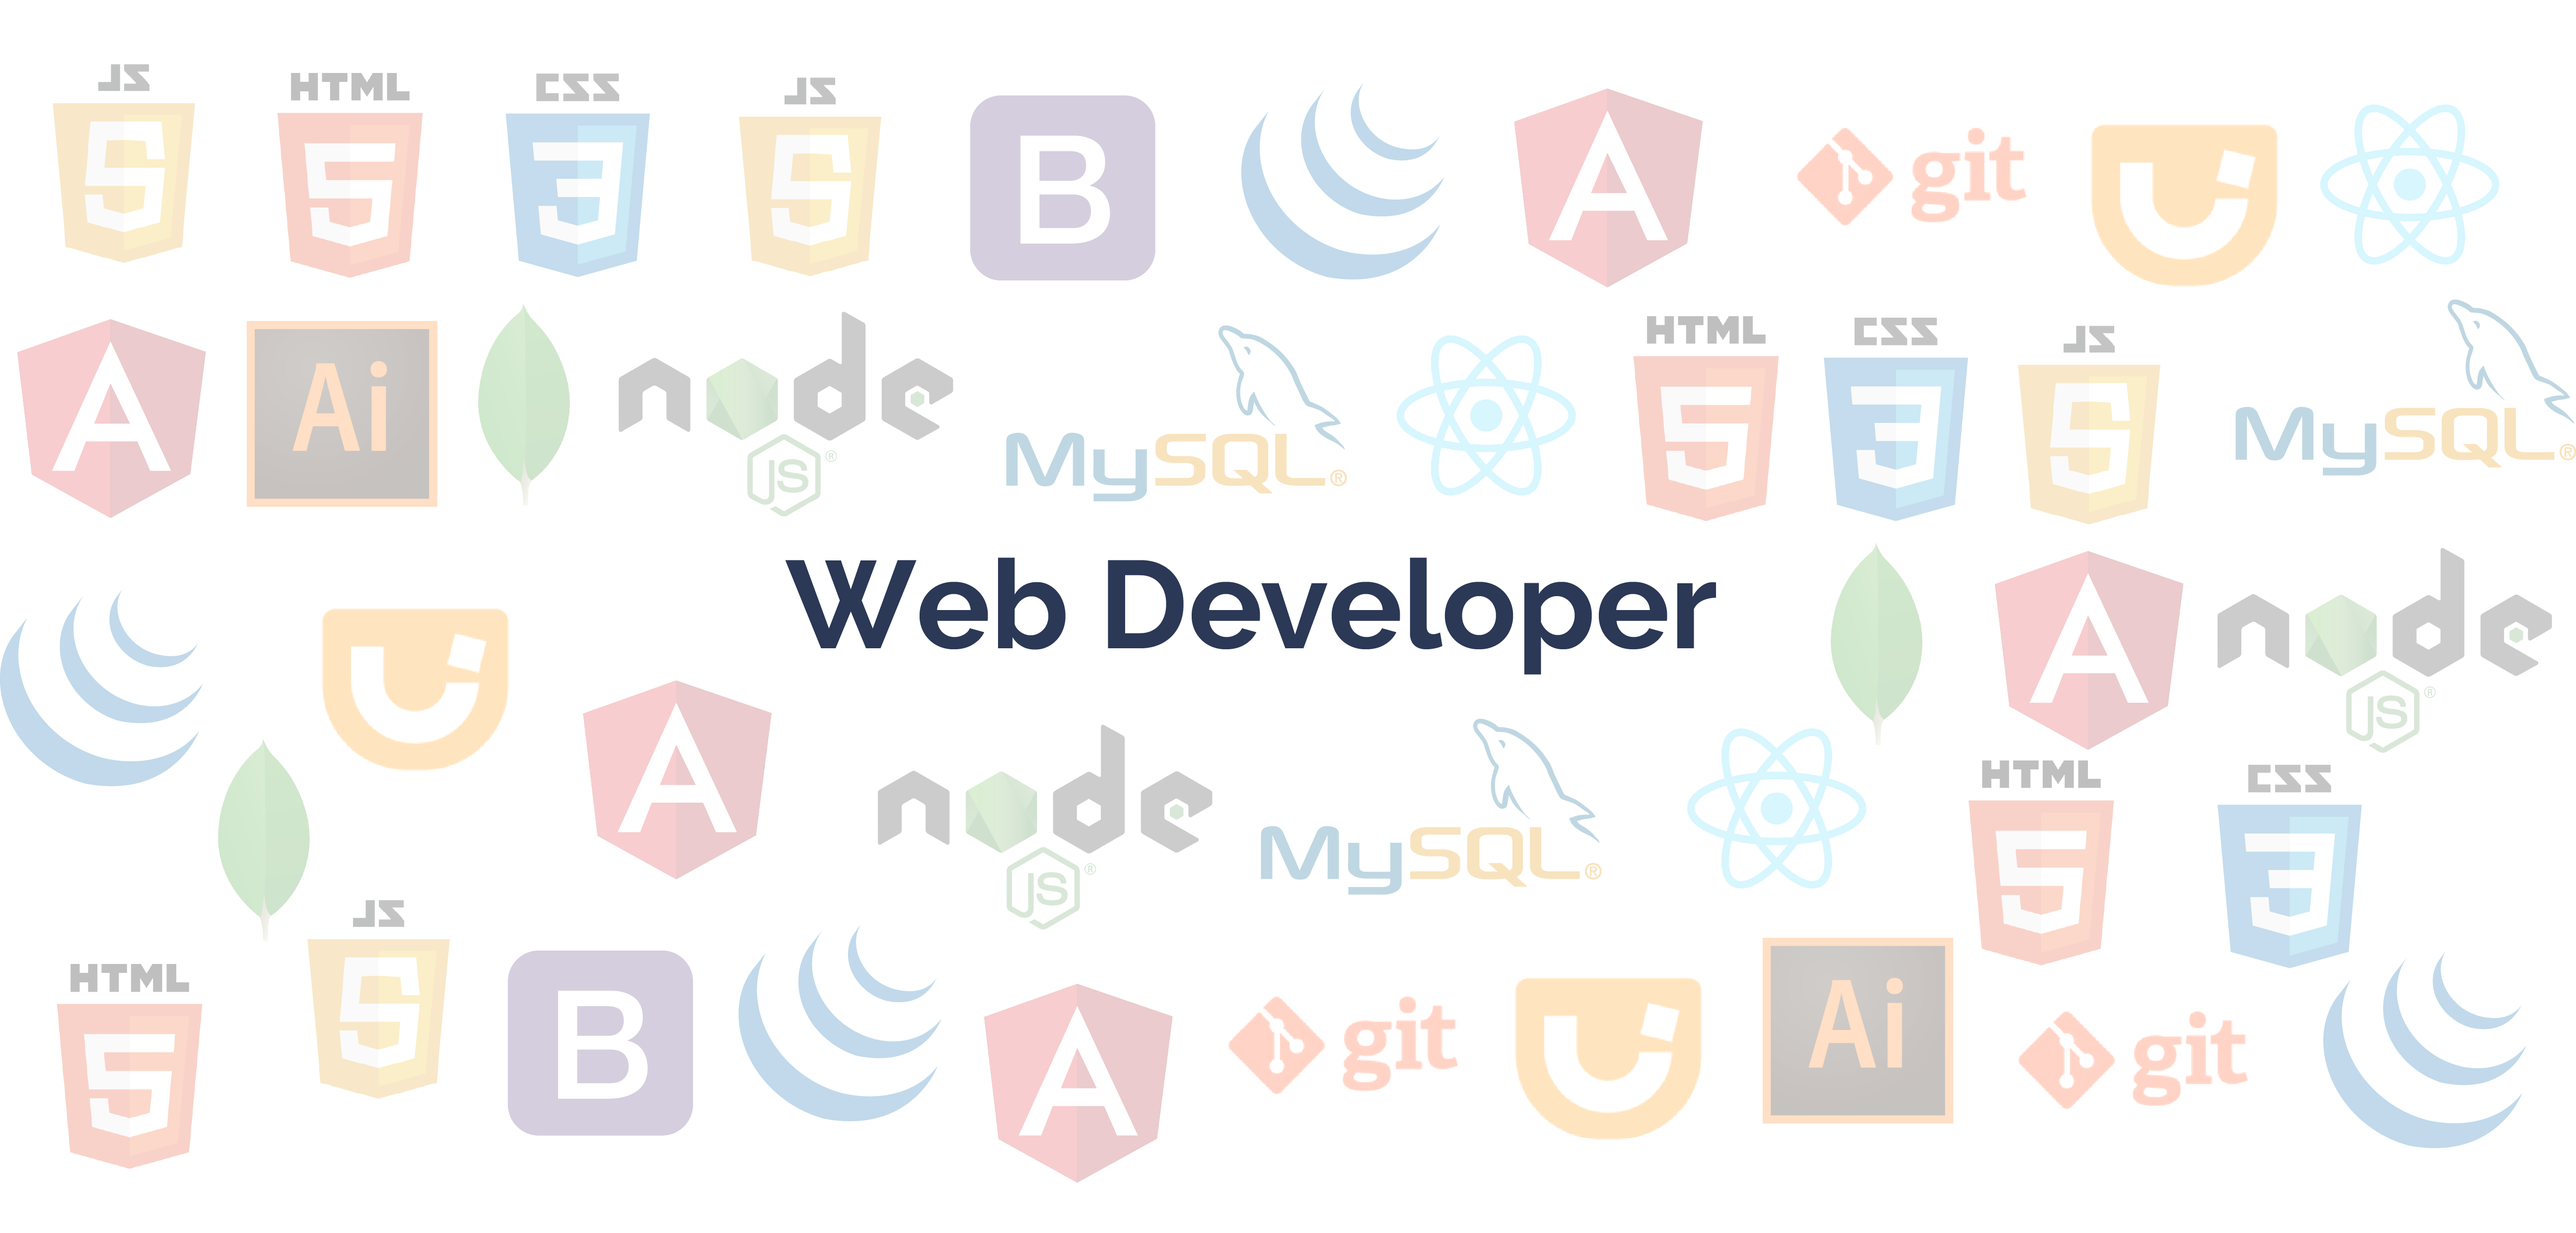
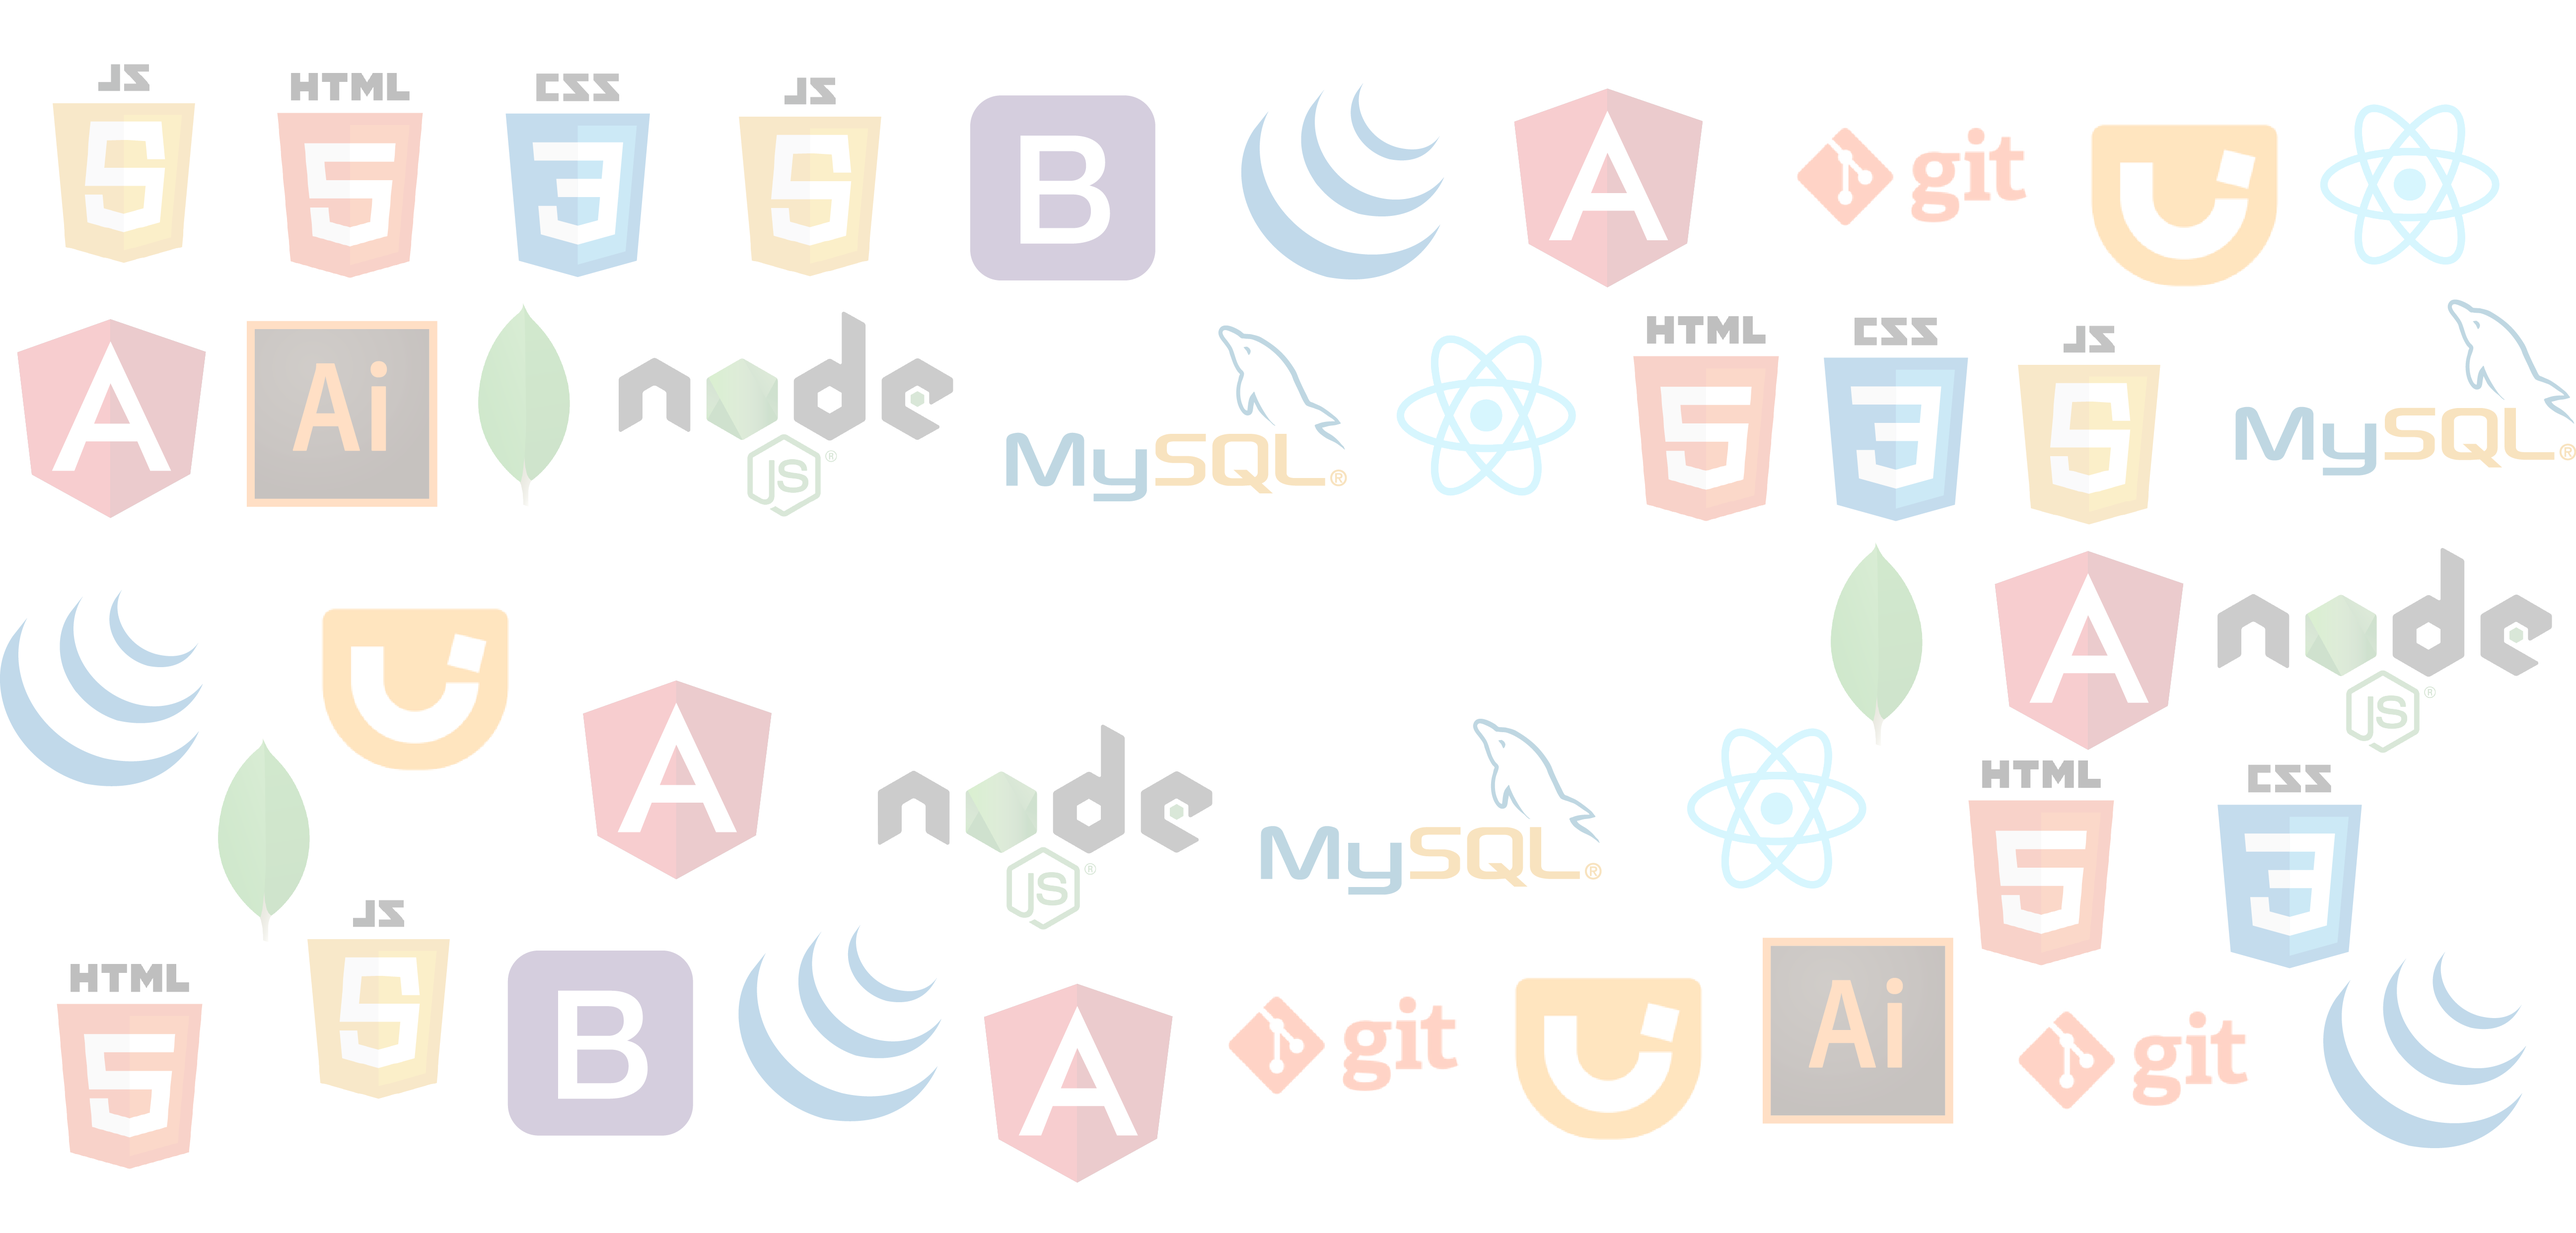
added backgrounds and jquery effects on main and about

Changed region(s): [[0.3123, 0.434, 0.687, 0.558]]

diff --git a/index.html b/index.html
@@ -2,7 +2,6 @@
 <html>
 	<head>
 		<meta charset="utf-8"/>
-		<link rel="stylesheet" href="node_modules/angular-material.min.css">
 		<link rel="stylesheet" type="text/css" href="reset.css">
 		<link rel="stylesheet" type="text/css" href="style.css">
 		<link rel="stylesheet" type="text/css" href="jquery-ui/jquery-ui.css">
@@ -36,6 +35,13 @@
 
 
 			//about
+			$(".about-icon").mouseover(function(){
+				$(this).addClass("animate-icon");
+			});
+			$(".about-icon").mouseout(function(){
+				$(this).removeClass("animate-icon");
+			});
+
     		$(".collapse_on").click(function(){
     			$(this).siblings().toggle(function(){
     				if($(this).siblings().attr("class")=="collapse_on"){
@@ -50,29 +56,49 @@
     		});
 
 	    });
-
+	    // ABOUT ME SECTION
 	    $( function() {
 		    $( "#tabs" ).tabs();
 		} );
 
-	    // project slides (out of document.ready)
-	  //   	var slideIndex = 1;
-			// showDivs(slideIndex);
+	    // MENU SELECTION (SCROLL)
 
-			// function plusDivs(n) {
-	  // 			showDivs(slideIndex += n);
-			// }
+	    function selectMenu(itemId){
+	    	$('#menu > ul > li > a').removeClass('checked');
+	    	$('#' + itemId).addClass('checked');
+	    };
 
-			// function showDivs(n) {
-	  // 		var i;
-	  // 		var x = document.getElementsByClassName("mySlides");
-	  // 		if (n > x.length) {slideIndex = 1}    
-	  // 		if (n < 1) {slideIndex = x.length} ;
-	  // 		for (i = 0; i < x.length; i++) {
-	  //   	x[i].style.display = "none";  
-	  // 		}
-	  // 		x[slideIndex-1].style.display = "inline-block";  
-			// }
+		$(window).scroll(function() {    
+		    var scroll = $(window).scrollTop();
+
+		    var homePosition = $('#home').offset();
+		    var projectPosition = $('#project').offset();
+		    var aboutPosition = $('#about').offset();
+		    var contactsPosition = $('#contacts').offset();
+
+		    if (scroll <= (projectPosition.top+homePosition.top)/2) {
+		        selectMenu('menu-home');
+		    }
+		    
+		    else if (scroll > (projectPosition.top+homePosition.top)/2
+		    	&&
+		    	scroll <= (projectPosition.top+aboutPosition.top)/2) {
+		        selectMenu('menu-projects');
+		    }
+
+		    else if (scroll > (projectPosition.top+aboutPosition.top)/2
+		    	&&
+		    	scroll <= (aboutPosition.top+contactsPosition.top)/2) {
+		        selectMenu('menu-about');
+		    }
+
+		    else  {
+		        selectMenu('menu-contacts');
+		    }
+		    console.log(scroll);
+		});
+
+
 	 
 	    </script>
 	</head>
@@ -82,20 +108,23 @@
 			<img src="images/title.png">
 			<div id="menu">
 				<ul>
-					<li><a class="unchecked" href="#home">Home</a></li>
-					<li><a class="unchecked" href="#project">Projects</a></li>
- 					<li><a class="unchecked" href="#about">About</a></li>
-					<li><a class="unchecked" href="#contacts">Contacts</a></li>
+					<li><a class="unchecked" href="#home" id="menu-home">Home</a></li>
+					<li><a class="unchecked" href="#project" id="menu-projects">Projects</a></li>
+ 					<li><a class="unchecked" href="#about" id="menu-about">About</a></li>
+					<li><a class="unchecked" href="#contacts" id="menu-contacts">Contacts</a></li>
 				</ul>
 			</div>
 		</header>
 
 		<section id="home">
-			<img src="images/main.png" alt="Web Developer Skills">
+			<!-- <img src="images/main.png" alt="Web Developer Skills"> -->
+			<div class="typewriter">
+				<h3>Full Stack Developer.</h3>
+			</div>
+			
 		</section>
 
 		<section id="project">
-			<h2>Cool Projects</h2>
 			<div id="tabs">
 				<ul>
 					<li><a href="#tabs-1">Wine Geek</a></li>
@@ -115,11 +144,11 @@
 					<a href="https://github.com/thaissak/store">Click here to see it!</a>
 				</div>
 				<div id="tabs-3" class="project_desc mySlides">
-					<p>This awesome portfolio was a fun and challenging project. It's hard to come up with ways to show whoever is reading this who I am and what I can do. I figure the best way is to keep it simple and focus on showing you all the amazing things I did so far and give a little bit of fun facts too, cause we are not all about work.</p>
+					<p>This awesome portfolio was a fun and challenging project. It's hard to come up with ways to show whoever is reading this who I am and what I can do.I figured that keeping things  simple and focusing on showing the amazing things I did so far with a little bit of fun facts too, is the way to go!</p>
 					<h3>Build with: HTML5, CSS3, JavaScript, jQuery, jQuery UI</h3>
 				</div>
 				<div id="tabs-4" class="project_desc mySlides">
-					<p>Task Slaughter was born in an attempt to help organize people's days, keeping track of all the tasks they have throughout the day and showing them on Google Maps. The coolest feature about it is being able to text yourself your task, so you can have the address and time ready to go on your phone. This group project was part of a Hackathon, being built and deployed in 4 days and won 1st place! Amazing!</p>
+					<p>Task Slaughter was born in an attempt to help organize people's days, keeping track of all the tasks they have throughout the day and showing them on Google Maps. The coolest feature is the ability to text yourself your task, so you can have the information you need ready to go on your phone. This group project was part of a Hackathon, being built and deployed in 4 days and won 1st place! Amazing!</p>
 					<h3>Build with: HTML5, CSS3, Python, MySQL</h3>
 					<a href="http://52.37.60.82/task_slaughter">Click here to see it!</a>
 				</div>	
@@ -138,28 +167,28 @@
 			<ul>
 				<li>
 					<div class="collapse_on">
-						<img src="images/icon_contacts.png" alt="icon" title="Click me!">
+						<img class="about-icon" src="images/icon_contactscopy.png" alt="icon" title="Click me!">
 						<h4>I love Legos</h4>
 					</div>
 					<p class="hidden">I'm in love with Legos since I can remember! I had few different ones when I was little but for the past years I've been collecting themes from my favorite movies and cartoons, among them: The Millenium Falcon from Star Wars, the Tumbler from Batman and The Mystery Machine from Scooby-Doo. I hope one day I can have a big room dedicated to them, so I can keep buying more and more!</p>
 				</li>
 				<li>
 					<div class="collapse_on">
-						<img src="images/icon_contacts.png" alt="icon" title="Click me!">
+						<img class="about-icon" src="images/icon_contactscopy.png" alt="icon" title="Click me!">
 						<h4>Movies are my thing</h4>
 					</div>
 					<p class="hidden">During my free time you can usually find me either watching a movie on TV or at the movie theater. That's probably my favorite thing to do and I can't stay away for too long. I think you can imagine some of the movies I love but, honestly, I'm up for almost all genres and love to watch something that makes me reflect on my own life (thinking on how cool it would be to have superpowers counts right?) and I hate to wait for any sequel...I mean, who likes to wait for a sequel, right?!</p>
 				</li>
 				<li>
 					<div class="collapse_on">
-						<img src="images/icon_contacts.png" alt="icon" title="Click me!">
+						<img class="about-icon" src="images/icon_contactscopy.png" alt="icon" title="Click me!">
 						<h4>I want to travel the world</h4>
 					</div>
 					<p class="hidden">I don't know when this started to be a big deal for me, but now that I've been around a bit is just impossible to ignore that there's a whole world out there waiting to be discovered. There's something magical about being around a different culture, contemplating all kinds of views and architectures. So far, Ireland and Greece were my favorite but I'm hoping the next one will be as good or better. </p>
 				</li>
 				<li>
 					<div class="collapse_on">
-						<img src="images/icon_contacts.png" alt="icon" title="Click me!">
+						<img class="about-icon" src="images/icon_contactscopy.png" alt="icon" title="Click me!">
 						<h4>Fascinated by human behavior, sociology and philosophy</h4>
 					</div>
 					<p class="hidden">I was fortunate to have philosophy classes during High School and that opened a door that I never intend to close. My taste for philosophical books evolved to human behavior and, more specifically, when concerns different cultures, social values and human nature. If I have the time, I will get a new book on the subject and read it nonstop, the last one was Quiet - The Power of Introverts in a World That Can't Stop Talking, by Susan Cain (a must read book in my opinion!).</p>
@@ -168,7 +197,7 @@
 		</section>
 
 		<section id="contacts">
-			<h2>Contacts</h2>
+			<h2>Best ways to find me!</h2>
 			<div class="contacts_desc">
 				<a href="https://www.linkedin.com/in/thaissa-kobayashi-27941667"><img id="linkedin" src="images/linkedin.png" alt="Linkedin" title="Linkedin"></a>
 				<h3>Connect with me on Linkedin</h3>

diff --git a/style.css b/style.css
@@ -145,29 +145,66 @@ header img{
 
 #home{
 	padding: 5% 0%;
-	width: 100%;
+	min-height: 500px;
+	width: 107%;
+	background-image: url("images/main.png");
+	background-size: 100%;
 }
 
-#home img{
+/*#home img{
 	width: 100%;
 	margin: 0 2%;
+}*/
+
+.typewriter{
+	margin-top: 18%;
+}
+
+.typewriter h3 {
+	text-align: center;
+	font-size: 3em;
+	font-family: 'Raleway', Sans-Serif;
+	font-weight: bold;
+	width: 70%;
+  overflow: hidden; /* Ensures the content is not revealed until the animation */
+  border-right: .15em solid orange; /* The typwriter cursor */
+  white-space: nowrap; /* Keeps the content on a single line */
+  margin: 0 auto; /* Gives that scrolling effect as the typing happens */
+  letter-spacing: .15em; /* Adjust as needed */
+  animation: 
+    typing 5.5s steps(40, end),
+    blink-caret .75s step-end infinite;
+
+}
+
+/* The typing effect */
+@keyframes typing {
+  from { width: 0 }
+  to { width: 80% }
+}
+
+/* The typewriter cursor effect */
+@keyframes blink-caret {
+  from, to { border-color: transparent }
+  50% { border-color: orange; }
 }
 
 
 /*SECTION PROJECT*/
 
 #project{
-	min-height: 500px;
-	width: 76%;
-	margin: 0% 12%;
+	width: 100%;
+	margin: 0% auto;
+	background-image: url('images/office.png');
+	background-size: 100%;
+	background-repeat: no-repeat;
 }
 
-#project h2{
-	width: 30%;
-	padding: 1%;
-	text-align: center;
-	margin: 0% 34% 4% 34%;
-
+#tabs{
+	width: 76%;
+	margin-left: auto;
+	margin-right: auto;
+	opacity: 0.9;
 }
 
 .project_desc p{
@@ -191,6 +228,15 @@ header img{
 
 
 /*SECTION ABOUT*/
+
+#about{
+	width: 100%;
+	min-height: 500px;
+	margin: 0% auto;
+	background-image: url('images/about.png');
+	background-size: 100%;
+	background-repeat: no-repeat;
+}
 
 #about h2{
 	width: 30%;
@@ -237,6 +283,10 @@ header img{
 	vertical-align: middle;
 }
 
+.animate-icon{
+	transform: rotate(15deg);
+}
+
 /*SECTION CONTACTS*/
 
 #contacts{
@@ -246,9 +296,10 @@ header img{
 }
 
 #contacts h2{
-	width: 20%;
+	width: 50%;
 	text-align: center;
-	margin: 1% 40% 5% 40%;
+	margin: 1% auto 6% auto;
+	letter-spacing: 1px;
 }
 
 .contacts_desc{

diff --git a/jquery-ui/jquery-ui.css b/jquery-ui/jquery-ui.css
@@ -93,7 +93,9 @@
 .ui-tabs {
 	/*position: relative;*//* position: relative prevents IE scroll bug (element with position: relative inside container with overflow: auto appear as "fixed") */
 /*	padding: .2em;
-*/}
+*/
+	margin-top: 10%;
+}
 .ui-tabs .ui-tabs-nav {
 	margin: 0;
 	/*padding: .2em .2em 0;*/
@@ -168,6 +170,7 @@
 }
 .ui-widget-header a {
 	color: #333333;
+	font-weight: bold;
 }
 
 /* Interaction states
